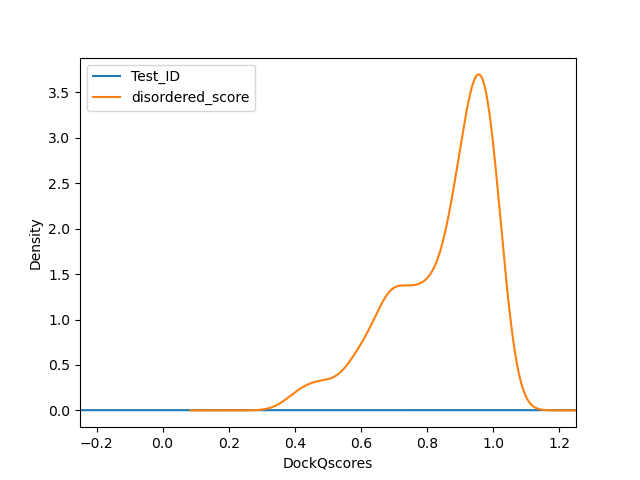
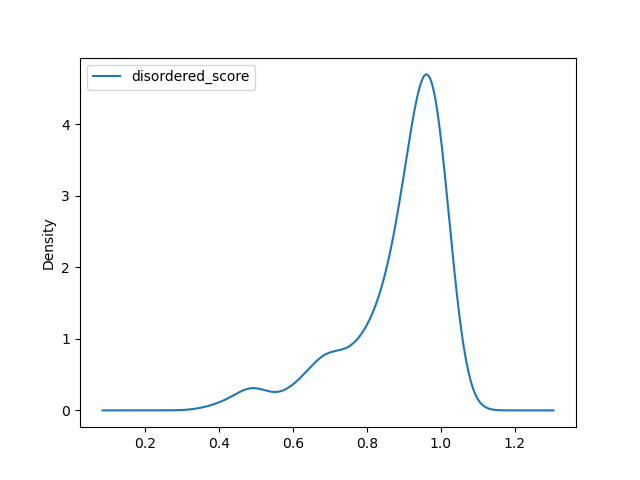
debug

diff --git a/scripts/analyze_results.py b/scripts/analyze_results.py
@@ -81,8 +81,8 @@ def main():
     df = df[df["normalized_alignment_score"] >= 0.90]
 
     # density
-    ax = df.loc[:,["Test_ID","disordered_score"]].plot(kind="density")
-    #df.loc[:,["pdb","DockQ_AF_0"]].plot(kind="density")
+    ax = df.loc[:,["disordered_score"]].plot(kind="density")
+    df[df["On_target"] == True].loc[:,["disordered_score"]].plot(kind="density")
     ax.set_xlabel('DockQscores')
     ax.set_xlim([-0.25, 1.25])
     #ax.set_ylim([0, 1.6])
